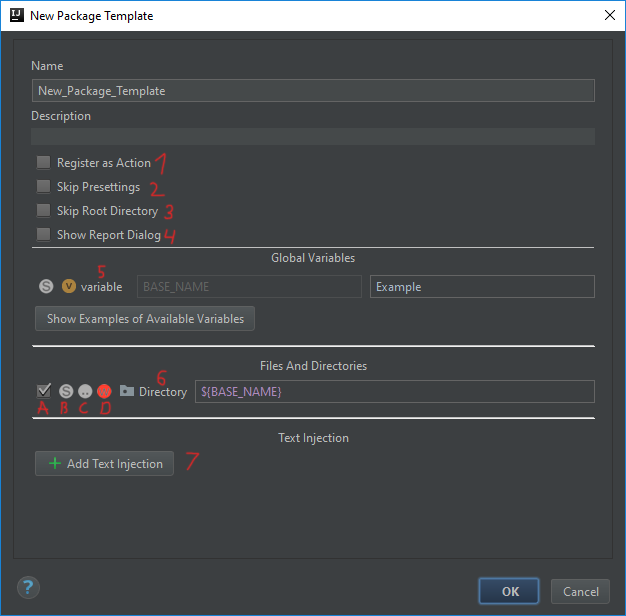
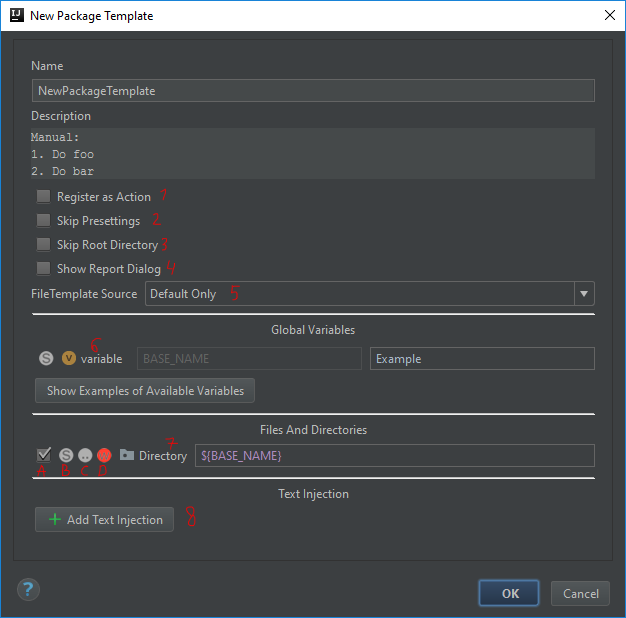
v0.4 part 2

diff --git a/_tutorials/ru/create_template.md b/_tutorials/ru/create_template.md
@@ -10,13 +10,14 @@ order: 3
 2. Пропускать диалог с [преднастройками][3]. Будут использованы имена файлов и папок по умолчанию(указанные при создании\редактировании).
 3. Не создавать корневую директорию. Для случаев, когда нужны только файлы.
 4. Показывать отчет после успешного выполнения шаблона.
-5. [Глобальные переменные][1].
-6. Структура шаблона. Добавлять\удалять элементы можно с помощью ПКМ.<br>
+5. [FileTemplate Source][8].
+6. [Глобальные переменные][1].
+7. Структура шаблона. Добавлять\удалять элементы можно с помощью ПКМ.<br>
 **A.** Вкл\Выкл элемент, в момент исполнения шаблона будут созданы только отмеченные элементы.<br>
 **B.** [Script][5]<br>
 **C.** [Custom Path][6]<br>
 **D.** [Write Rules][2]<br>
-7. Создать [Text Injection][7]
+8. Создать [Text Injection][7]
 
 ### Добавление элемента
 
@@ -39,3 +40,4 @@ order: 3
 [5]: {{ site.baseurl}}{{ site.data.links.tutorial_script[page.lang] }}
 [6]: {{ site.baseurl}}{{ site.data.links.tutorial_custom_path[page.lang] }}
 [7]: {{ site.baseurl}}{{ site.data.links.tutorial_text_injection[page.lang] }}
+[8]: {{ site.baseurl}}{{ site.data.links.tutorial_file_template_source[page.lang] }}

diff --git a/_tutorials/en/impex.md b/_tutorials/en/impex.md
@@ -24,5 +24,15 @@ For import template you should specify path to file. When you import regularly i
 ### Use Case
 Suppose that you work in team and want to share your templates. To do this, you need to share dir where you will export the templates. You can do it via third-party services such as [Dropbox][1]. After that, your colleagues should specify this folder for AutoImport and use **Update Action** after templates changes.
 
+### Schemes <a name="schemes"></a>
+
+* if current scheme is **Default**, then import works as usual.
+* if current scheme is **Project**, then appears following dialog:
+
+![where_to_save_dialog]({{ site.baseurl }}/images/tutorial/where_to_save_dialog.png){: .image}
+
+Depends on your choice [FileTemplate Source][3] of PackageTemplates will be set to **DEFAULT_ONLY** or **PROJECT_ONLY**.
+
 [1]: {{ site.data.links.dropbox }}
 [2]: {{ site.baseurl}}{{ site.data.links.tutorial_write_rules[page.lang] }}
+[3]: {{ site.baseurl}}{{ site.data.links.tutorial_file_template_source[page.lang] }}

diff --git a/_tutorials/en/create_template.md b/_tutorials/en/create_template.md
@@ -10,13 +10,14 @@ order: 3
 2. Skip the [presettings][3] dialog.
 3. Skip root directory. Let you create files only.
 4. Show report after successful execution.
-5. [Global variables][1].
-6. Template structure. You can add\remove elements by right-click menu.<br>
+5. [FileTemplate Source][8].
+6. [Global variables][1].
+7. Template structure. You can add\remove elements by right-click menu.<br>
 **A.** On\Off element creating<br>
 **B.** [Script][5]<br>
 **C.** [Custom Path][6]<br>
 **D.** [Write Rules][2]<br>
-7. Add [Text Injection][7]
+8. Add [Text Injection][7]
 
 ### Addition Element
 
@@ -39,3 +40,4 @@ To have a better understanding of this example, be familiar with other tutorials
 [5]: {{ site.baseurl}}{{ site.data.links.tutorial_script[page.lang] }}
 [6]: {{ site.baseurl}}{{ site.data.links.tutorial_custom_path[page.lang] }}
 [7]: {{ site.baseurl}}{{ site.data.links.tutorial_text_injection[page.lang] }}
+[8]: {{ site.baseurl}}{{ site.data.links.tutorial_file_template_source[page.lang] }}

diff --git a/_tutorials/en/scheme.md b/_tutorials/en/scheme.md
@@ -1,0 +1,19 @@
+---
+title: Scheme
+lang: en
+order: 2
+---
+
+First of all be familiar with [Per-project vs default scheme][1]. Plugin supports both schemes. You can change scheme in IDE settings:
+
+![template_source_switch_scheme]({{ site.baseurl }}/images/tutorial/template_source_switch_scheme.png){: .imageFragment}
+
+Similarly to **FileTemplates PackageTemplates** are stored in the following locations:
+
+* The default (global) templates are stored in the IntelliJ IDEA home directory, in the folder **config / PackageTemplates**
+* The per-project templates are stored in the **.idea / PackageTemplates** folder. These templates can be shared among the team members.
+
+Schemes have influence on Import (details [here][2]).
+
+[1]: {{ site.data.links.file_templates_schemes }}
+[2]: {{ site.baseurl}}{{ site.data.links.tutorial_impex[page.lang] }}#schemes

diff --git a/_tutorials/ru/basics.md b/_tutorials/ru/basics.md
@@ -28,6 +28,7 @@ order: 2
 
 **Примечание:** **{{ site.data.const.favourites }}** запоминает путь к файлу. Если при запуске IDE по сохраненному пути не будет файла, то шаблон автоматически удалится из списка **{{ site.data.const.favourites }}**. 
 
+
 [1]: {{ site.baseurl}}{{ site.data.links.tutorial_shortcuts[page.lang] }}
 [2]: {{ site.baseurl}}{{ site.data.links.tutorial_impex[page.lang] }}#export
 [3]: {{ site.baseurl}}{{ site.data.links.tutorial_impex[page.lang] }}#import

diff --git a/_tutorials/en/basics.md b/_tutorials/en/basics.md
@@ -28,6 +28,7 @@ Exists two way:
 
 **Note:** **{{ site.data.const.favourites }}** store path to file. If file will be not found while IDE starts then template will be removed from **{{ site.data.const.favourites }}** automatically. 
 
+
 [1]: {{ site.baseurl}}{{ site.data.links.tutorial_shortcuts[page.lang] }}
 [2]: {{ site.baseurl}}{{ site.data.links.tutorial_impex[page.lang] }}#export
 [3]: {{ site.baseurl}}{{ site.data.links.tutorial_impex[page.lang] }}#import

diff --git a/_tutorials/en/file_template_source.md b/_tutorials/en/file_template_source.md
@@ -1,0 +1,9 @@
+---
+title: FileTemplate Source
+lang: en
+order: 2
+---
+
+![template_source_switch_scheme]({{ site.baseurl }}/images/tutorial/template_source_switch_scheme.png){: .imageFragment}
+
+[1]: {{ site.data.links.file_templates_schemes }}
